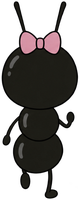
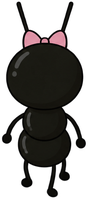
자리 맡기: 끼토 앞모습 다시 그림(코 없음), 미개 앞·뒷모습 팔 둘·다리 넷으로
Claude-Session: https://claude.ai/code/session_013wfMHj7YfyKc9So8NsgLCh

Changed region(s): [[0.0, 0.0, 1.0, 1.0], [0.35, 0.66, 0.375, 0.69], [0.225, 0.0, 0.25, 0.03]]

diff --git a/docs/MAT_출시점검.md b/docs/MAT_출시점검.md
@@ -81,7 +81,7 @@
 | 흙먼지 | 두 걸음마다 발밑 흙먼지, 질주 중엔 더 크게 |
 | 돗자리 펼침 | 두른 칸이 두른 자리에서부터 차례로 살짝 튀며 펼쳐짐 |
 | 기술 | 질주 속도선, 등딱지 방패, 개미굴 둔덕+흙 자국, 쫑긋 파동, 실타래 털실 공, 털썩 드러눕기 |
-| ✅ 앞모습·뒷모습 걷기 | (10/13) OpenAI 이미지 생성(`tools/gen_openai.py`)으로 주민 6명 × 앞·뒤 × 4장 = 48장. 기존 주민 그림을 참고 그림으로 넣어 모습을 맞춤. 아래로 갈 땐 앞모습, 위로 갈 땐 뒷모습을 걸음 속도에 맞춰 넘김 (`assets/mat/front_*`, `back_*`) |
+| ✅ 앞모습·뒷모습 걷기 | (10/13) OpenAI 이미지 생성. 끼토 앞모습은 원래 설정(코 없음)대로, 미개는 팔 둘·다리 넷으로 다시 그림. 이미지 생성(`tools/gen_openai.py`)으로 주민 6명 × 앞·뒤 × 4장 = 48장. 기존 주민 그림을 참고 그림으로 넣어 모습을 맞춤. 아래로 갈 땐 앞모습, 위로 갈 땐 뒷모습을 걸음 속도에 맞춰 넘김 (`assets/mat/front_*`, `back_*`) |
 
 ## 6. 결정이 필요한 제안
 
